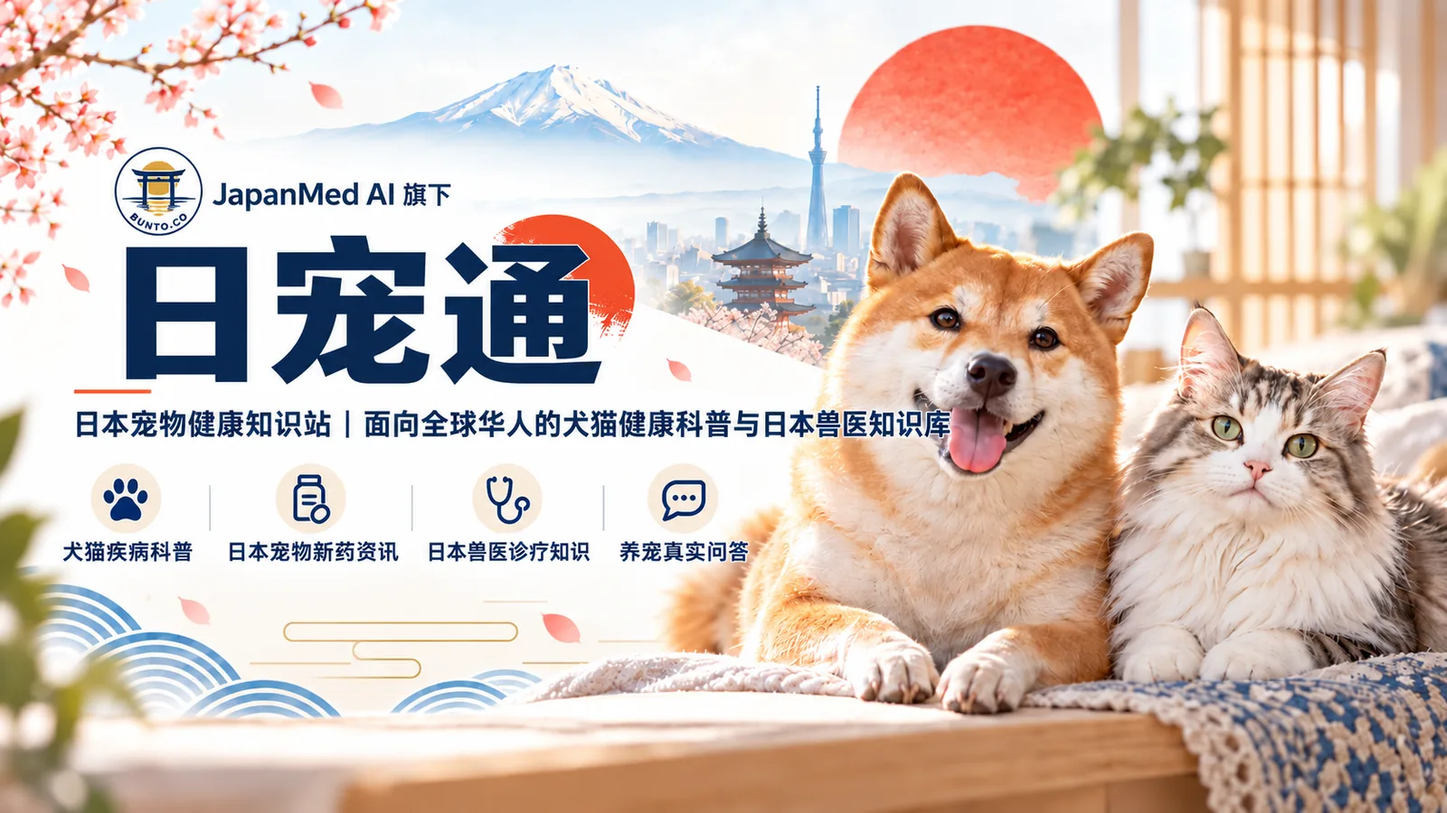
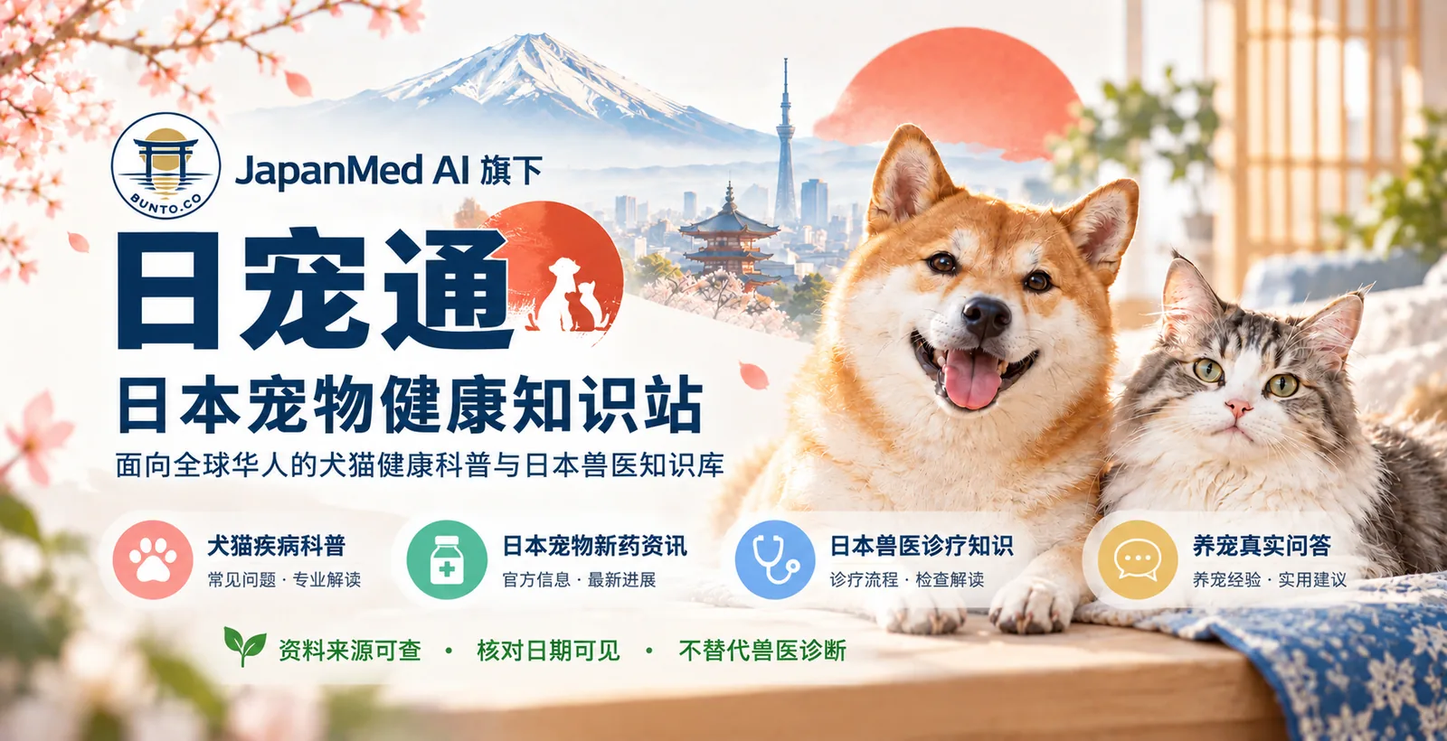
Release approved RiChongTong pet knowledge homepage and brand assets (#7)
Founder approved merge and launch on 2026-10-18. Keep medical-review status explicit and indexing separate pending verified canonical domain.

diff --git a/pet-site/api/pet.js b/pet-site/api/pet.js
@@ -1,5 +1,13 @@
 const BASE = 'https://www.japanmedai.com/pet';
 const SITE = '日宠通';
+// Final 26 brand assets have been imported and validated in PR #7 (d7fb26c).
+const BRAND_ASSETS_READY = true;
+// 开放索引由 Founder 决定：INDEX_APPROVED 改为 true 后，只有 Vercel Production 部署才会 index；Preview 永远 noindex
+const INDEX_APPROVED = false;
+const INDEXABLE = INDEX_APPROVED && process.env.VERCEL_ENV === 'production';
+// 内容未达标的栏目单独 noindex，并且不放进 sitemap
+const NOINDEX_PATHS = new Set(['new-drugs']);
+const robotsFor = p => (INDEXABLE && !NOINDEX_PATHS.has(slugPath(p))) ? 'index,follow' : 'noindex,follow';
 const UPDATED = '2026-10-17';
 
 const articles = [
@@ -50,17 +58,17 @@ function esc(s=''){return String(s).replace(/[&<>"']/g,c=>({'&':'&amp;','<':'&lt
 function slugPath(path=''){return path.replace(/^\/+|\/+$/g,'');}
 function pageTitle(title){return title?`${title}｜${SITE}`:`${SITE}｜日本宠物健康知识站`;}
 function canonical(path=''){const p=slugPath(path);return p?`${BASE}/${p}/`:`${BASE}/`;}
-function meta({title,description,path,jsonld=''}){const c=canonical(path);return `<!doctype html><html lang="zh-CN"><head><meta charset="utf-8"><meta name="viewport" content="width=device-width,initial-scale=1"><title>${esc(pageTitle(title))}</title><meta name="description" content="${esc(description)}"><meta name="robots" content="noindex,follow"><link rel="canonical" href="${c}"><meta property="og:type" content="article"><meta property="og:title" content="${esc(pageTitle(title))}"><meta property="og:description" content="${esc(description)}"><meta property="og:url" content="${c}"><meta name="theme-color" content="#176B57"><link rel="icon" href="/pet/assets/bunto-logo-192.png"><meta property="og:image" content="${BASE}/assets/richongtong-hero-1600.jpg">${jsonld?`<script type="application/ld+json">${jsonld}</script>`:''}<style>:root{--ink:#17312a;--muted:#61736e;--green:#176b57;--line:#dfe9e4;--soft:#eaf5f0;--shadow:0 12px 32px rgba(24,70,58,.08)}*{box-sizing:border-box}body{margin:0;font-family:ui-sans-serif,-apple-system,BlinkMacSystemFont,"Segoe UI","PingFang SC","Microsoft YaHei",sans-serif;background:linear-gradient(180deg,#f4faf7 0,#fff 340px);color:var(--ink);line-height:1.75}a{color:inherit;text-decoration:none}.wrap{max-width:1120px;margin:auto;padding:0 24px}.top{position:sticky;top:0;z-index:10;background:rgba(255,255,255,.92);backdrop-filter:blur(12px);border-bottom:1px solid var(--line)}.nav{height:72px;display:flex;align-items:center;justify-content:space-between;gap:24px}.brand{display:flex;align-items:center;gap:12px;font-weight:800}.paw{width:40px;height:40px;border-radius:14px;background:var(--green);display:grid;place-items:center;color:white;font-size:22px}.brand small{display:block;font-weight:500;color:var(--muted);font-size:11px;margin-top:-2px}.links{display:flex;gap:22px;font-size:14px;color:#38574f}.hero{padding:28px 0 42px}.heroimg{display:block;width:100%;height:auto;border-radius:20px;box-shadow:var(--shadow);margin-bottom:22px}.logo{width:44px;height:44px;object-fit:contain;display:block}.eyebrow{display:inline-flex;gap:8px;align-items:center;font-size:13px;color:var(--green);background:var(--soft);border:1px solid #d5eadf;padding:7px 11px;border-radius:999px}.hero h1{font-size:36px;line-height:1.16;max-width:760px;margin:18px 0 14px}.trustline{font-size:14px!important;color:var(--green)!important;margin-top:-4px}.hero p{font-size:18px;color:var(--muted);max-width:760px}.search{display:flex;gap:10px;max-width:720px;margin-top:28px}.search input{flex:1;border:1px solid var(--line);border-radius:14px;padding:15px 18px;font-size:16px;background:#fff;box-shadow:var(--shadow)}.btn{border:0;background:var(--green);color:#fff;border-radius:14px;padding:0 20px;font-weight:700}.grid{display:grid;grid-template-columns:repeat(3,1fr);gap:18px}.card{background:#fff;border:1px solid var(--line);border-radius:20px;padding:22px;box-shadow:var(--shadow)}.card h3{font-size:18px;margin:6px 0 8px}.card p{color:var(--muted);font-size:14px;margin:0}.tag{font-size:12px;color:var(--green);font-weight:700}.section{padding:28px 0 46px}.section-head{display:flex;align-items:end;justify-content:space-between;margin-bottom:18px}.section-head h2{margin:0;font-size:28px}.section-head p{margin:4px 0 0;color:var(--muted)}.qa-list{display:grid;grid-template-columns:1fr 1fr;gap:14px}.qa{background:#fff;border:1px solid var(--line);border-radius:16px;padding:17px 18px}.qa b{display:block;margin-bottom:5px}.qa span{color:var(--muted);font-size:13px}.trust{display:grid;grid-template-columns:repeat(4,1fr);gap:12px}.trust div{background:var(--soft);border-radius:16px;padding:18px}.trust strong{display:block;color:var(--green);margin-bottom:4px}.article{max-width:820px;margin:46px auto 70px;padding:0 18px}.crumb{font-size:13px;color:var(--muted);margin-bottom:18px}.article h1{font-size:38px;line-height:1.25;margin:8px 0 14px}.dek{font-size:18px;color:var(--muted);margin-bottom:24px}.direct{background:var(--soft);border-left:4px solid var(--green);padding:18px 20px;border-radius:0 16px 16px 0;margin:24px 0}.article p{font-size:17px;margin:0 0 18px}.note{background:#fff8ee;border:1px solid #f1ddbf;border-radius:16px;padding:18px 20px;margin-top:28px;color:#6a5336}.related{margin-top:38px;border-top:1px solid var(--line);padding-top:24px}.article h2{font-size:22px;margin:30px 0 10px}.article ol,.refs ul{padding-left:22px;font-size:17px;margin:0 0 18px}.refs a{color:var(--green)}.related a{display:block;padding:9px 0;color:var(--green)}.footer{border-top:1px solid var(--line);background:#fff;padding:34px 0;color:var(--muted);font-size:13px}.footrow{display:flex;justify-content:space-between;gap:20px;flex-wrap:wrap}.badge{display:inline-block;background:#fff;border:1px solid var(--line);border-radius:999px;padding:5px 10px;font-size:12px;color:var(--muted);margin-right:6px}@media(max-width:820px){.links{display:none}.hero{padding-top:44px}.hero h1{font-size:36px}.grid,.qa-list{grid-template-columns:1fr}.trust{grid-template-columns:1fr 1fr}.article h1{font-size:31px}.search{flex-direction:column}.btn{height:48px}}@media(max-width:520px){.trust{grid-template-columns:1fr}.hero h1{font-size:32px}}</style></head><body>`;}
-function header(){return `<div class="top"><div class="wrap nav"><a class="brand" href="/pet/"><img class="logo" src="/pet/assets/bunto-logo-192.png" alt="BUNTO.CO 文腾株式会社" width="44" height="44"><div>日宠通<small>Japan Pet Health Knowledge</small></div></a><div class="links"><a href="/pet/">首页</a><a href="/pet/cat/">猫健康</a><a href="/pet/dog/">狗健康</a><a href="/pet/new-drugs/">日本宠物新药</a><a href="/pet/qa/">健康问答</a><a href="/pet/about/">关于</a></div></div></div>`;}
-function footer(){return `<footer class="footer"><div class="wrap footrow"><div><b style="color:var(--ink)">日宠通</b> · 日本宠物健康知识站<br>A knowledge project by JapanMed AI</div><div>内容用于宠物健康科普，不替代兽医诊断与治疗。<br>资料核对日期：${UPDATED}</div></div></footer>`;}
+function meta({title,description,path,jsonld=''}){const c=canonical(path);return `<!doctype html><html lang="zh-CN"><head><meta charset="utf-8"><meta name="viewport" content="width=device-width,initial-scale=1"><title>${esc(pageTitle(title))}</title><meta name="description" content="${esc(description)}"><meta name="robots" content="${robotsFor(path)}"><link rel="canonical" href="${c}"><meta property="og:type" content="article"><meta property="og:title" content="${esc(pageTitle(title))}"><meta property="og:description" content="${esc(description)}"><meta property="og:url" content="${c}"><meta name="theme-color" content="#014C30"><link rel="icon" href="/pet/assets/favicon.svg" type="image/svg+xml">${BRAND_ASSETS_READY?`<link rel="icon" href="/pet/assets/favicon.ico" sizes="48x48"><link rel="apple-touch-icon" href="/pet/assets/apple-touch-icon.png"><link rel="icon" href="/pet/assets/icon-192.png" sizes="192x192">`:``}<meta property="og:image" content="${BASE}/assets/og-image.jpg"><meta property="og:image:width" content="1200"><meta property="og:image:height" content="630">${jsonld?`<script type="application/ld+json">${jsonld}</script>`:''}<style>:root{--ink:#17312a;--muted:#61736e;--green:#014C30;--line:#dfe9e4;--soft:#eaf5f0;--shadow:0 12px 32px rgba(24,70,58,.08)}*{box-sizing:border-box}body{margin:0;font-family:ui-sans-serif,-apple-system,BlinkMacSystemFont,"Segoe UI","PingFang SC","Microsoft YaHei",sans-serif;background:linear-gradient(180deg,#f4faf7 0,#fff 340px);color:var(--ink);line-height:1.75}a{color:inherit;text-decoration:none}.wrap{max-width:1120px;margin:auto;padding:0 24px}.top{position:sticky;top:0;z-index:10;background:rgba(255,255,255,.92);backdrop-filter:blur(12px);border-bottom:1px solid var(--line)}.nav{height:72px;display:flex;align-items:center;justify-content:space-between;gap:24px}.brand{display:flex;align-items:center;gap:12px;font-weight:800}.paw{width:40px;height:40px;border-radius:14px;background:var(--green);display:grid;place-items:center;color:white;font-size:22px}.brand small{display:block;font-weight:500;color:var(--muted);font-size:11px;margin-top:-2px}.links{display:flex;gap:22px;font-size:14px;color:#38574f}.hero{padding:34px 0 40px;background:radial-gradient(circle at 82% 10%,rgba(252,211,191,.35),transparent 34%),linear-gradient(180deg,#f0f8f4 0%,#fff 100%)}.hero-kicker{display:inline-block;font-size:14px!important;letter-spacing:.04em;color:var(--green)!important;font-weight:700;margin:0!important;padding:7px 14px;background:#e7f1eb;border-radius:999px;border:1px solid #dcece2}.hero .wrap{position:relative}.heroimg{display:block;width:100%;max-width:860px;height:auto;border-radius:20px;box-shadow:var(--shadow);margin-bottom:22px}.logo{width:44px;height:44px;object-fit:contain;display:block}.brandmark{display:block;line-height:0}.brandmark img{display:block;height:36px;width:auto;max-width:190px}.footer.branded{background:#014C30;color:#FEFAF0;border-top:0}.footer.branded a{color:#FEFAF0}.footermark{display:block;line-height:0;margin-bottom:8px}.footermark img{display:block;height:36px;width:auto;max-width:190px}@media(min-width:768px){.brandmark img{height:40px}.footermark img{height:40px}}.eyebrow{display:inline-flex;gap:8px;align-items:center;font-size:13px;color:var(--green);background:var(--soft);border:1px solid #d5eadf;padding:7px 11px;border-radius:999px}.hero h1{font-size:36px;line-height:1.16;max-width:760px;margin:18px 0 14px}.trustline{font-size:14px!important;color:var(--green)!important;margin-top:-4px}.hero p{font-size:18px;color:var(--muted);max-width:760px}.search{display:flex;gap:10px;max-width:720px;margin-top:26px}#searchBox:not(:empty){margin-top:16px}.search input{flex:1;min-width:0;border:1px solid var(--line);border-radius:14px;padding:15px 18px;font-size:16px;background:#fff;box-shadow:var(--shadow)}.btn{border:0;background:var(--green);color:#fff;border-radius:14px;padding:0 20px;font-weight:700}.grid{display:grid;grid-template-columns:repeat(3,1fr);gap:18px}.card{background:#fff;border:1px solid var(--line);border-radius:20px;padding:22px;box-shadow:var(--shadow)}.card h3{font-size:18px;margin:6px 0 8px}.card p{color:var(--muted);font-size:14px;margin:0}.tag{font-size:12px;color:var(--green);font-weight:700}.section{padding:28px 0 46px}.section-head{display:flex;align-items:end;justify-content:space-between;gap:12px;margin-bottom:18px}.section-head>div{min-width:0;flex:1}.section-head>a.tag{flex:0 0 auto;white-space:nowrap;align-self:flex-end}.section-head h2{margin:0;font-size:28px}.section-head p{margin:4px 0 0;color:var(--muted)}.qa-list{display:grid;grid-template-columns:1fr 1fr;gap:14px}.qa{background:#fff;border:1px solid var(--line);border-radius:16px;padding:17px 18px}.qa b{display:block;margin-bottom:5px}.qa span{color:var(--muted);font-size:13px}.trust{display:grid;grid-template-columns:repeat(4,1fr);gap:12px}.trust div{background:var(--soft);border-radius:16px;padding:18px}.trust strong{display:block;color:var(--green);margin-bottom:4px}.article{max-width:820px;margin:46px auto 70px;padding:0 18px}.crumb{font-size:13px;color:var(--muted);margin-bottom:18px}.article h1{font-size:38px;line-height:1.25;margin:8px 0 14px}.dek{font-size:18px;color:var(--muted);margin-bottom:24px}.direct{background:var(--soft);border-left:4px solid var(--green);padding:18px 20px;border-radius:0 16px 16px 0;margin:24px 0}.article p{font-size:17px;margin:0 0 18px}.note{background:#fff8ee;border:1px solid #f1ddbf;border-radius:16px;padding:18px 20px;margin-top:28px;color:#6a5336}.related{margin-top:38px;border-top:1px solid var(--line);padding-top:24px}.article h2{font-size:22px;margin:30px 0 10px}.article ol,.refs ul{padding-left:22px;font-size:17px;margin:0 0 18px}.refs a{color:var(--green)}.related a{display:block;padding:9px 0;color:var(--green)}.footer{border-top:1px solid var(--line);background:#fff;padding:34px 0;color:var(--muted);font-size:13px}.footrow{display:flex;justify-content:space-between;gap:20px;flex-wrap:wrap}.badge{display:inline-block;background:#fff;border:1px solid var(--line);border-radius:999px;padding:5px 10px;font-size:12px;color:var(--muted);margin-right:6px}@media(max-width:820px){.nav{height:auto;flex-wrap:wrap;padding-top:10px;padding-bottom:10px;gap:8px}.links{display:flex;width:100%;gap:16px;overflow-x:auto;white-space:nowrap;font-size:13px;-webkit-overflow-scrolling:touch}.hero{padding-top:28px;padding-bottom:16px}.section{padding-top:18px}.section-head{align-items:flex-start}.section-head>a.tag{align-self:flex-start}.search{margin-top:20px}.hero h1{font-size:36px}.grid,.qa-list{grid-template-columns:1fr}.trust{grid-template-columns:1fr 1fr}.article h1{font-size:31px}.search{flex-direction:column}.btn{height:48px}}@media(max-width:520px){.trust{grid-template-columns:1fr}.hero h1{font-size:32px}}</style></head><body>`;}
+function header(){const mark=BRAND_ASSETS_READY?`<picture class="brandmark"><source media="(min-width:768px)" type="image/webp" srcset="/pet/assets/logo-header@2x.webp 2x, /pet/assets/logo-header@3x.webp 3x"><source media="(min-width:768px)" srcset="/pet/assets/logo-header@2x.png 2x, /pet/assets/logo-header@3x.png 3x"><source type="image/webp" srcset="/pet/assets/logo-header-compact@2x.webp 2x, /pet/assets/logo-header-compact@3x.webp 3x"><img src="/pet/assets/logo-header-compact@2x.png" srcset="/pet/assets/logo-header-compact@2x.png 2x, /pet/assets/logo-header-compact@3x.png 3x" alt="日宠通｜日本宠物健康知识站" width="88" height="36"></picture>`:`<img class="logo" src="/pet/assets/bunto-logo-192.png" alt="" width="44" height="44"><div>日宠通<small>Japan Pet Health Knowledge</small></div>`;return `<div class="top"><div class="wrap nav"><a class="brand" href="/pet/" aria-label="日宠通首页">${mark}</a><div class="links"><a href="/pet/">首页</a><a href="/pet/cat/">猫健康</a><a href="/pet/dog/">狗健康</a><a href="/pet/new-drugs/">日本宠物新药</a><a href="/pet/qa/">健康问答</a><a href="/pet/about/">关于</a></div></div></div>`;}
+function footer(){const mark=BRAND_ASSETS_READY?`<picture class="footermark"><source media="(min-width:768px)" type="image/webp" srcset="/pet/assets/logo-footer-reverse@2x.webp 2x, /pet/assets/logo-footer-reverse@3x.webp 3x"><source media="(min-width:768px)" srcset="/pet/assets/logo-footer-reverse@2x.png 2x, /pet/assets/logo-footer-reverse@3x.png 3x"><source type="image/webp" srcset="/pet/assets/logo-footer-reverse-compact@2x.webp 2x, /pet/assets/logo-footer-reverse-compact@3x.webp 3x"><img src="/pet/assets/logo-footer-reverse-compact@2x.png" srcset="/pet/assets/logo-footer-reverse-compact@2x.png 2x, /pet/assets/logo-footer-reverse-compact@3x.png 3x" alt="日宠通" width="88" height="36"></picture>`:`<b style="color:var(--ink)">日宠通</b> · 日本宠物健康知识站<br>由文腾株式会社运营`;return `<footer class="footer${BRAND_ASSETS_READY?' branded':''}"><div class="wrap footrow"><div>${mark}<small>© 2026 日宠通 · 由文腾株式会社运营</small></div><div>内容用于宠物健康科普，不替代兽医诊断与治疗。<br>资料核对日期：${UPDATED}</div></div></footer>`;}
 function layout(content,opts){return meta(opts)+header()+content+footer()+`</body></html>`;}
 function card(a){return `<a class="qa" href="/pet/qa/${a.slug}/"><b>${esc(a.title)}</b><span>${esc(a.species)} · ${esc(a.topic)}　${esc(a.summary)}</span></a>`;}
-function home(){const jsonld=JSON.stringify({'@context':'https://schema.org','@type':'WebSite',name:'日宠通',url:`${BASE}/`,description:'日宠通是 JapanMed AI 旗下的日本宠物健康知识站，面向全球华人提供犬猫健康科普与日本兽医知识。',publisher:{'@type':'Organization',name:'JapanMed AI'}});return layout(`<main><section class="hero"><div class="wrap"><picture><source type="image/webp" srcset="/pet/assets/richongtong-hero-900.webp 900w, /pet/assets/richongtong-hero-1600.webp 1600w" sizes="(max-width:1120px) 100vw, 1072px"><img class="heroimg" src="/pet/assets/richongtong-hero-1600.jpg" width="1600" height="900" alt="日宠通｜JapanMed AI 旗下日本宠物健康知识站：犬猫疾病科普、日本宠物新药资讯、日本兽医诊疗知识、养宠真实问答" fetchpriority="high"></picture><h1>日宠通｜日本宠物健康知识站</h1><p>面向全球华人的犬猫健康科普与日本兽医知识库：犬猫疾病科普、日本宠物新药资讯、日本兽医诊疗知识、养宠真实问答。</p><p class="trustline">资料来源可查 · 核对日期可见 · 不替代兽医诊断</p><div class="search"><input id="q" placeholder="搜索：猫皮屑、狗舔脚、过敏、肾病……"><button class="btn" onclick="runSearch()">搜索知识库</button></div><div id="searchBox" style="margin-top:16px"></div></div></section><section class="section"><div class="wrap"><div class="section-head"><div><h2>从真实问题进入</h2><p>比“大而全”的百科更接近宠物主人真实搜索意图。</p></div><a class="tag" href="/pet/qa/">查看全部 →</a></div><div class="qa-list">${articles.slice(0,8).map(card).join('')}</div></div></section><section class="section"><div class="wrap"><div class="section-head"><div><h2>知识栏目</h2><p>独立导航、独立内容体系，不与人的医疗内容混合。</p></div></div><div class="grid"><a class="card" href="/pet/cat/"><span class="tag">CAT HEALTH</span><h3>猫健康</h3><p>皮肤、被毛、泌尿、肾脏、老年猫等日常高频问题。</p></a><a class="card" href="/pet/dog/"><span class="tag">DOG HEALTH</span><h3>狗健康</h3><p>皮肤过敏、舔脚、掉毛、耳部、慢病管理与复诊准备。</p></a><a class="card" href="/pet/new-drugs/"><span class="tag">JAPAN VETERINARY DRUGS</span><h3>日本宠物新药</h3><p>仅收录经过日本官方公开资料核对的新药与新适应症信息。</p></a></div></div></section><section class="section"><div class="wrap"><div class="section-head"><div><h2>内容原则</h2><p>为搜索引擎和AI提供结构清楚、来源可追踪的知识节点。</p></div></div><div class="trust"><div><strong>真实性优先</strong><span>不编造病例、药物信息或专家观点。</span></div><div><strong>问题导向</strong><span>每页聚焦一个明确的主人问题。</span></div><div><strong>明确边界</strong><span>科普不替代兽医检查与治疗。</span></div><div><strong>持续核对</strong><span>涉及日本批准信息优先核对官方资料。</span></div></div></div></section></main><script>const ALL=${JSON.stringify(articles.map(a=>({title:a.title,summary:a.summary,slug:a.slug,species:a.species,topic:a.topic})))};function runSearch(){const q=document.getElementById('q').value.trim().toLowerCase();const box=document.getElementById('searchBox');if(!q){box.innerHTML='';return}const rs=ALL.filter(a=>(a.title+a.summary+a.species+a.topic).toLowerCase().includes(q)).slice(0,8);box.innerHTML=rs.length?'<div class="qa-list">'+rs.map(a=>'<a class="qa" href="/pet/qa/'+a.slug+'/"><b>'+a.title+'</b><span>'+a.species+' · '+a.topic+'　'+a.summary+'</span></a>').join('')+'</div>':'<div class="card">暂未找到匹配内容。知识库会持续扩充。</div>'}document.getElementById('q').addEventListener('keydown',e=>{if(e.key==='Enter')runSearch()});</script>`,{description:'日宠通是 JapanMed AI 旗下独立的日本宠物健康与精准兽医知识库，持续整理犬猫健康、日本宠物新药与日本兽医医疗进展。',path:'',jsonld});}
+function home(){const jsonld=JSON.stringify({'@context':'https://schema.org','@type':'WebSite',name:'日宠通',url:`${BASE}/`,description:'日宠通是面向全球华人的独立日本宠物健康知识站，提供犬猫健康科普、养宠问答与日本兽医知识。',publisher:{'@type':'Organization',name:'文腾株式会社'}});return layout(`<main><section class="hero"><div class="wrap"><p class="hero-kicker">犬猫健康科普 · 日本兽医知识 · 养宠真实问答</p><h1>看得懂的日本兽医知识</h1><p>面向全球华人的犬猫健康科普与日本兽医知识库：犬猫疾病科普、日本宠物新药资讯、日本兽医诊疗知识、养宠真实问答。</p><p class="trustline">资料来源可查 · 核对日期可见 · 不替代兽医诊断</p><div class="search"><input id="q" placeholder="搜索：猫皮屑、狗舔脚、过敏、肾病……"><button class="btn" onclick="runSearch()">搜索知识库</button></div><div id="searchBox"></div></div></section><section class="section"><div class="wrap"><div class="section-head"><div><h2>从真实问题进入</h2><p>围绕症状、疾病和生活场景，回答宠物主人真正会遇到的问题。</p></div><a class="tag" href="/pet/qa/">查看全部 →</a></div><div class="qa-list">${articles.slice(0,8).map(card).join('')}</div></div></section><section class="section"><div class="wrap"><div class="section-head"><div><h2>知识栏目</h2><p>按猫、狗和日本宠物新药分类，快速找到需要的信息。</p></div></div><div class="grid"><a class="card" href="/pet/cat/"><span class="tag">CAT HEALTH</span><h3>猫健康</h3><p>皮肤、被毛、泌尿、肾脏、老年猫等日常高频问题。</p></a><a class="card" href="/pet/dog/"><span class="tag">DOG HEALTH</span><h3>狗健康</h3><p>皮肤过敏、舔脚、掉毛、耳部、慢病管理与复诊准备。</p></a><a class="card" href="/pet/new-drugs/"><span class="tag">JAPAN VETERINARY DRUGS</span><h3>日本宠物新药</h3><p>仅收录经过日本官方公开资料核对的新药与新适应症信息。</p></a></div></div></section><section class="section"><div class="wrap"><div class="section-head"><div><h2>我们的内容标准</h2><p>重要信息尽量说明适用边界；涉及日本批准、新适应症等内容，优先核对日本官方公开资料。</p></div></div><div class="trust"><div><strong>真实性优先</strong><span>不编造病例、药物信息或专家观点。</span></div><div><strong>问题导向</strong><span>每页聚焦一个明确的主人问题。</span></div><div><strong>明确边界</strong><span>科普不替代兽医检查与治疗。</span></div><div><strong>持续核对</strong><span>涉及日本批准信息优先核对官方资料。</span></div></div></div></section></main><script>const ALL=${JSON.stringify(articles.map(a=>({title:a.title,summary:a.summary,slug:a.slug,species:a.species,topic:a.topic})))};function runSearch(){const q=document.getElementById('q').value.trim().toLowerCase();const box=document.getElementById('searchBox');if(!q){box.innerHTML='';return}const rs=ALL.filter(a=>(a.title+a.summary+a.species+a.topic).toLowerCase().includes(q)).slice(0,8);box.innerHTML=rs.length?'<div class="qa-list">'+rs.map(a=>'<a class="qa" href="/pet/qa/'+a.slug+'/"><b>'+a.title+'</b><span>'+a.species+' · '+a.topic+'　'+a.summary+'</span></a>').join('')+'</div>':'<div class="card">暂未找到匹配内容。知识库会持续扩充。</div>'}document.getElementById('q').addEventListener('keydown',e=>{if(e.key==='Enter')runSearch()});</script>`,{description:'日宠通｜日本宠物健康知识站，面向全球华人整理犬猫健康科普、养宠真实问答、日本宠物新药资讯及日本兽医诊疗知识。',path:'',jsonld});}
 function category(species){const list=articles.filter(a=>a.species===species);const title=`${species}健康知识库`;return layout(`<main class="article"><div class="crumb"><a href="/pet/">日宠通</a> / ${title}</div><h1>${title}</h1><p class="dek">围绕${species}主人真实会遇到的健康问题，持续扩展可检索的专业科普内容。</p><div class="qa-list">${list.map(card).join('')}</div></main>`,{title,description:`日宠通${title}：围绕真实宠物健康问题整理专业、客观、简洁的兽医科普。`,path:species==='猫'?'cat':'dog'});}
 function qaIndex(){return layout(`<main class="article"><div class="crumb"><a href="/pet/">日宠通</a> / 健康问答</div><h1>宠物健康问答</h1><p class="dek">一个问题一个页面，聚焦主人真正会搜索、会在复诊时提出的问题。</p><div class="qa-list">${articles.map(card).join('')}</div></main>`,{title:'宠物健康问答',description:'日宠通宠物健康问答，覆盖猫狗皮肤、过敏、掉毛、泌尿、肾病、肝胆等常见问题。',path:'qa'});}
 function newDrugs(){return layout(`<main class="article"><div class="crumb"><a href="/pet/">日宠通</a> / 日本宠物新药</div><h1>日本宠物新药</h1><p class="dek">这一栏目只做经过公开资料核对的日本动物用新药、新适应症与精准兽医进展，不做药品销售入口。</p><div class="direct"><b>收录标准</b><br>涉及“日本最新批准”“新适应症”“批准日期”等信息时，优先核对日本农林水产省、动物医药品检査所等官方公开资料；无法确认的内容不写成确定事实。</div><div class="card"><span class="tag">栏目建设中</span><h3>先建立标准，再扩大数量</h3><p>后续每个药物页面将包含：通用名、商品名、批准对象与疾病、批准日期、作用机制、官方来源、资料核对日期及相关问答。</p></div></main>`,{title:'日本宠物新药',description:'日宠通日本宠物新药栏目，收录经日本官方公开资料核对的动物用新药、新适应症与精准兽医进展。',path:'new-drugs'});}
-function about(){return layout(`<main class="article"><div class="crumb"><a href="/pet/">日宠通</a> / 关于</div><h1>关于日宠通</h1><p class="dek">日宠通是 JapanMed AI 旗下独立的宠物健康知识项目，目前定位为内容与知识库建设，不提供宠物药品销售、在线诊断或远程治疗服务。</p><h2>我们做什么</h2><p>围绕犬猫主人真实问题，整理结构清楚、便于搜索与AI引用的健康科普；同时持续关注日本宠物新药、动物用创新药和精准兽医进展。</p><h2>我们不做什么</h2><p>不虚构宠物治疗案例，不承诺疗效，不把研究信息写成已获批治疗，不冒充兽医专家，不用内容替代线下检查。</p><h2>编辑原则</h2><p>真实性 ＞ 专业性 ＞ 可读性 ＞ 流量。涉及日本最新批准、新适应症和批准日期等时效信息时，优先核对日本官方公开资料。</p><div class="note">日宠通当前属于知识项目。未来是否扩展为实际宠物医疗服务，将以真实业务能力和合规条件为前提。</div></main>`,{title:'关于日宠通',description:'了解日宠通的定位、编辑原则与内容边界。日宠通目前是 JapanMed AI 旗下独立宠物健康知识项目。',path:'about'});}
-function articlePage(a){const related=articles.filter(x=>x.slug!==a.slug&&(x.species===a.species||x.topic===a.topic)).sort((x,y)=>(y.species===a.species&&y.topic===a.topic)-(x.species===a.species&&x.topic===a.topic)).slice(0,4);const jsonld=JSON.stringify({'@context':'https://schema.org','@graph':[{'@type':'Article',headline:a.title,description:a.summary,datePublished:a.published||'2026-10-17',dateModified:UPDATED,mainEntityOfPage:canonical(`qa/${a.slug}`),author:{'@type':'Organization',name:'日宠通编辑部'},publisher:{'@type':'Organization',name:'JapanMed AI'}},{'@type':'FAQPage',mainEntity:[{'@type':'Question',name:a.title,acceptedAnswer:{'@type':'Answer',text:a.answer}}]}]});return layout(`<main class="article"><div class="crumb"><a href="/pet/">日宠通</a> / <a href="/pet/${a.species==='猫'?'cat':'dog'}/">${a.species}健康</a> / ${esc(a.topic)}</div><span class="badge">${esc(a.species)}</span><span class="badge">${esc(a.topic)}</span><h1>${esc(a.title)}</h1>${a.summary!==a.answer?`<p class="dek">${esc(a.summary)}</p>`:''}<div class="direct"><b>直接回答</b><br>${esc(a.answer)}</div>${a.body.map(p=>typeof p==='string'?`<p>${esc(p)}</p>`:`<h2>${esc(p.h)}</h2>${p.li?`<ol>${p.li.map(x=>`<li>${esc(x)}</li>`).join('')}</ol>`:`<p>${esc(p.t)}</p>`}`).join('')}${a.refs?`<div class="refs"><h2>参考与核对入口</h2><ul>${a.refs.map(r=>`<li><a href="${esc(r.url)}" target="_blank" rel="noopener">${esc(r.name)}</a></li>`).join('')}</ul><p class="crumb">以上为公开专业资料入口；具体个体情况以接诊兽医判断为准。</p></div>`:''}<div class="note">药物是否适合使用及具体治疗方案，应由专业兽医结合宠物病情综合评估，本文不作展开。本文用于宠物健康科普，不替代兽医诊断与治疗。</div><div class="related"><h2>相关问题</h2>${related.map(x=>`<a href="/pet/qa/${x.slug}/">→ ${esc(x.title)}</a>`).join('')}</div></main>`,{title:a.title,description:a.summary,path:`qa/${a.slug}`,jsonld});}
-function sitemap(){const paths=['','cat','dog','new-drugs','qa','about',...articles.map(a=>`qa/${a.slug}`)];return `<?xml version="1.0" encoding="UTF-8"?><urlset xmlns="http://www.sitemaps.org/schemas/sitemap/0.9">${paths.map(p=>`<url><loc>${canonical(p)}</loc><lastmod>${UPDATED}</lastmod></url>`).join('')}</urlset>`;}
-function llms(){return `# 日宠通（Japan Pet Health Knowledge）\n\n> JapanMed AI 旗下独立宠物健康知识项目。\n\n## 定位\n- 犬猫健康高频问答\n- 日本宠物新药与新适应症\n- 精准兽医与日本兽医医疗进展\n\n## 编辑原则\n- 真实性优先，不编造病例或专家观点\n- 不承诺疗效，不替代兽医诊断\n- 涉及日本批准信息优先核对官方公开资料\n- 一个问题一个独立知识页面，保留核对日期与内容边界\n\n## 主要入口\n- ${BASE}/\n- ${BASE}/cat/\n- ${BASE}/dog/\n- ${BASE}/new-drugs/\n- ${BASE}/qa/\n\n## 当前问答\n${articles.map(a=>`- [${a.title}](${BASE}/qa/${a.slug}/)`).join('\n')}\n`;}
-module.exports=(req,res)=>{const path=slugPath((req.query.path||'').toString());res.setHeader('X-Content-Type-Options','nosniff');res.setHeader('Referrer-Policy','strict-origin-when-cross-origin');res.setHeader('X-Robots-Tag','noindex, follow');if(path==='sitemap.xml'){res.setHeader('Content-Type','application/xml; charset=utf-8');return res.status(200).send(sitemap());}if(path==='llms.txt'){res.setHeader('Content-Type','text/plain; charset=utf-8');return res.status(200).send(llms());}res.setHeader('Content-Type','text/html; charset=utf-8');if(path==='')return res.status(200).send(home());if(path==='cat')return res.status(200).send(category('猫'));if(path==='dog')return res.status(200).send(category('狗'));if(path==='qa')return res.status(200).send(qaIndex());if(path==='new-drugs')return res.status(200).send(newDrugs());if(path==='about')return res.status(200).send(about());const m=path.match(/^qa\/([^/]+)$/);if(m){const a=articles.find(x=>x.slug===m[1]);if(a)return res.status(200).send(articlePage(a));}return res.status(404).send(layout(`<main class="article"><h1>页面暂未收录</h1><p class="dek">这个知识节点还在建设中。</p><a class="btn" style="display:inline-block;padding:12px 18px" href="/pet/">返回日宠通首页</a></main>`,{title:'页面未找到',description:'日宠通知识库页面未找到。',path}));};
+function about(){return layout(`<main class="article"><div class="crumb"><a href="/pet/">日宠通</a> / 关于</div><h1>关于日宠通</h1><p class="dek">日宠通由文腾株式会社运营，是独立的犬猫健康科普与日本兽医知识项目。目前专注知识内容建设，不提供宠物药品销售、在线诊断或远程治疗服务。</p><h2>我们做什么</h2><p>围绕犬猫主人真实问题，整理结构清楚、来源可查的健康科普；同时持续关注日本宠物新药、动物用创新药和精准兽医进展。</p><h2>我们不做什么</h2><p>不虚构宠物治疗案例，不承诺疗效，不把研究信息写成已获批治疗，不冒充兽医专家，不用内容替代线下检查。</p><h2>编辑原则</h2><p>真实性 ＞ 专业性 ＞ 可读性 ＞ 流量。涉及日本最新批准、新适应症和批准日期等时效信息时，优先核对日本官方公开资料。</p><div class="note">日宠通当前属于知识项目。未来是否扩展为实际宠物医疗服务，将以真实业务能力和合规条件为前提。</div></main>`,{title:'关于日宠通',description:'了解日宠通的定位、编辑原则与内容边界。由文腾株式会社运营，提供犬猫健康科普及日本兽医知识。',path:'about'});}
+function articlePage(a){const related=articles.filter(x=>x.slug!==a.slug&&(x.species===a.species||x.topic===a.topic)).sort((x,y)=>(y.species===a.species&&y.topic===a.topic)-(x.species===a.species&&x.topic===a.topic)).slice(0,4);const jsonld=JSON.stringify({'@context':'https://schema.org','@graph':[{'@type':'Article',headline:a.title,description:a.summary,datePublished:a.published||'2026-10-17',dateModified:UPDATED,mainEntityOfPage:canonical(`qa/${a.slug}`),author:{'@type':'Organization',name:'日宠通编辑部'},publisher:{'@type':'Organization',name:'文腾株式会社'}},{'@type':'FAQPage',mainEntity:[{'@type':'Question',name:a.title,acceptedAnswer:{'@type':'Answer',text:a.answer}}]}]});return layout(`<main class="article"><div class="crumb"><a href="/pet/">日宠通</a> / <a href="/pet/${a.species==='猫'?'cat':'dog'}/">${a.species}健康</a> / ${esc(a.topic)}</div><span class="badge">${esc(a.species)}</span><span class="badge">${esc(a.topic)}</span><h1>${esc(a.title)}</h1>${a.summary!==a.answer?`<p class="dek">${esc(a.summary)}</p>`:''}<div class="direct"><b>直接回答</b><br>${esc(a.answer)}</div>${a.body.map(p=>typeof p==='string'?`<p>${esc(p)}</p>`:`<h2>${esc(p.h)}</h2>${p.li?`<ol>${p.li.map(x=>`<li>${esc(x)}</li>`).join('')}</ol>`:`<p>${esc(p.t)}</p>`}`).join('')}${a.refs?`<div class="refs"><h2>参考与核对入口</h2><ul>${a.refs.map(r=>`<li><a href="${esc(r.url)}" target="_blank" rel="noopener">${esc(r.name)}</a></li>`).join('')}</ul><p class="crumb">以上为公开专业资料入口；具体个体情况以接诊兽医判断为准。</p></div>`:''}<div class="note">药物是否适合使用及具体治疗方案，应由专业兽医结合宠物病情综合评估，本文不作展开。本文用于宠物健康科普，不替代兽医诊断与治疗。</div><div class="related"><h2>相关问题</h2>${related.map(x=>`<a href="/pet/qa/${x.slug}/">→ ${esc(x.title)}</a>`).join('')}</div></main>`,{title:a.title,description:a.summary,path:`qa/${a.slug}`,jsonld});}
+function sitemap(){const paths=['','cat','dog','qa','about',...articles.map(a=>`qa/${a.slug}`)];return `<?xml version="1.0" encoding="UTF-8"?><urlset xmlns="http://www.sitemaps.org/schemas/sitemap/0.9">${paths.map(p=>`<url><loc>${canonical(p)}</loc><lastmod>${UPDATED}</lastmod></url>`).join('')}</urlset>`;}
+function llms(){return `# 日宠通（Japan Pet Health Knowledge）\n\n> 由文腾株式会社运营的独立宠物健康科普与日本兽医知识项目。\n\n## 定位\n- 犬猫健康高频问答\n- 日本宠物新药与新适应症\n- 精准兽医与日本兽医医疗进展\n\n## 编辑原则\n- 真实性优先，不编造病例或专家观点\n- 不承诺疗效，不替代兽医诊断\n- 涉及日本批准信息优先核对官方公开资料\n- 一个问题一个独立知识页面，保留核对日期与内容边界\n\n## 主要入口\n- ${BASE}/\n- ${BASE}/cat/\n- ${BASE}/dog/\n- ${BASE}/new-drugs/\n- ${BASE}/qa/\n\n## 当前问答\n${articles.map(a=>`- [${a.title}](${BASE}/qa/${a.slug}/)`).join('\n')}\n`;}
+module.exports=(req,res)=>{const path=slugPath((req.query.path||'').toString());res.setHeader('X-Content-Type-Options','nosniff');res.setHeader('Referrer-Policy','strict-origin-when-cross-origin');res.setHeader('X-Robots-Tag',robotsFor(path).replace(',',', '));if(path==='sitemap.xml'){res.setHeader('Content-Type','application/xml; charset=utf-8');return res.status(200).send(sitemap());}if(path==='llms.txt'){res.setHeader('Content-Type','text/plain; charset=utf-8');return res.status(200).send(llms());}res.setHeader('Content-Type','text/html; charset=utf-8');if(path==='')return res.status(200).send(home());if(path==='cat')return res.status(200).send(category('猫'));if(path==='dog')return res.status(200).send(category('狗'));if(path==='qa')return res.status(200).send(qaIndex());if(path==='new-drugs')return res.status(200).send(newDrugs());if(path==='about')return res.status(200).send(about());const m=path.match(/^qa\/([^/]+)$/);if(m){const a=articles.find(x=>x.slug===m[1]);if(a)return res.status(200).send(articlePage(a));}res.setHeader('X-Robots-Tag','noindex, follow');return res.status(404).send(layout(`<main class="article"><h1>页面暂未收录</h1><p class="dek">这个知识节点还在建设中。</p><a class="btn" style="display:inline-block;padding:12px 18px" href="/pet/">返回日宠通首页</a></main>`,{title:'页面未找到',description:'日宠通知识库页面未找到。',path}).replace(/<meta name="robots" content="[^"]*">/,'<meta name="robots" content="noindex,follow">'));};

diff --git a/pet-site/pet/assets/RICHONGTONG-ASSETS-INTEGRATION.md b/pet-site/pet/assets/RICHONGTONG-ASSETS-INTEGRATION.md
@@ -1,0 +1,51 @@
+# 日宠通 PR #7｜最终 Logo 网页素材接入清单
+
+日期：2026-10-18
+目标：仅在 PR #7 待审核分支完成品牌素材接入；不得部署 / 合并 main / 解除 noindex。
+
+## 已完成（本分支）
+- 新增 `pet-site/pet/assets/favicon.svg`：用户提供的几何爪印 SVG，支持 16px 浏览器图标。
+- `pet-site/api/pet.js` 已加入桌面版/手机紧凑版页眉 Logo、深绿反白页脚 Logo、分享图、iOS/Android 图标的引用模板。
+- 更新页脚版权到 2026，并标注运营主体：文腾株式会社。
+- 代码使用 `BRAND_ASSETS_READY = false`，二进制素材未进入仓库前不激活缺失图片引用；目前 favicon.svg 已可用。
+
+## 待执行：将二进制文件放入同一目录
+以用户上传的 `richongtong-web-assets.zip` 为权威源；提取文件到 `pet-site/pet/assets/`，保持原始文件名及内容，不得重新生成或改写 Logo。
+
+**页眉桌面**：
+- logo-header@2x.webp / logo-header@3x.webp
+- logo-header@2x.png / logo-header@3x.png
+
+**页眉手机**：
+- logo-header-compact@2x.webp / logo-header-compact@3x.webp
+- logo-header-compact@2x.png / logo-header-compact@3x.png
+
+**深绿页脚（桌面/手机）**：
+- logo-footer-reverse@2x.webp / logo-footer-reverse@3x.webp
+- logo-footer-reverse@2x.png / logo-footer-reverse@3x.png
+- logo-footer-reverse-compact@2x.webp / logo-footer-reverse-compact@3x.webp
+- logo-footer-reverse-compact@2x.png / logo-footer-reverse-compact@3x.png
+
+**浏览器/PWA**：
+- favicon.ico、favicon-16.png、favicon-32.png、favicon-48.png
+- apple-touch-icon.png
+- icon-192.png、icon-512.png
+
+**社交分享**：
+- og-image.jpg（1200×630）；og-image.png 为可选原始备份。
+
+## 二进制素材导入完毕之后
+1. 在 `pet-site/api/pet.js` 将 `BRAND_ASSETS_READY` 设为 `true`。
+2. 逐一检查资源 HTTP 返回、Content-Type、宽高、2x/3x、alt 文本与无横向溢出。
+3. 用 390px 和 1280px 检查：页眉桌面完整、手机紧凑，深绿页脚有可辨认的米白 Logo。
+4. 检查 favicon 16/32/48px、Safari 主屏幕图标、Android 192/512 和微信链接分享图。
+5. 检查 OG 图片大小 1200x630、WebP/PNG 回退和首屏加载，确保导航、搜索、sitemap 不回归。
+6. 保持 `INDEX_APPROVED = false`，无 `Medical Approved`、无购买/问诊微信入口。
+
+## 素材核验结论
+- 用户压缩包 26 个图片/图标文件，加 README，体积约 700KB。
+- README 写有 `web_preview.png` 预览图，但原压缩包中**实际不存在**；不影响页面资源导入。
+- SVG 几何爪印与“宠”字上的爪印并非完全同一图形；待品牌矢量定稿时再统一。
+- 不得用 AI 效果图假称已替换真实页面，必须以代码运行画面为准。
+
+状态：部分完成；因当前 GitHub 文本写入接口无法携带压缩包内二进制图片，完整激活仍待资源文件上传。
